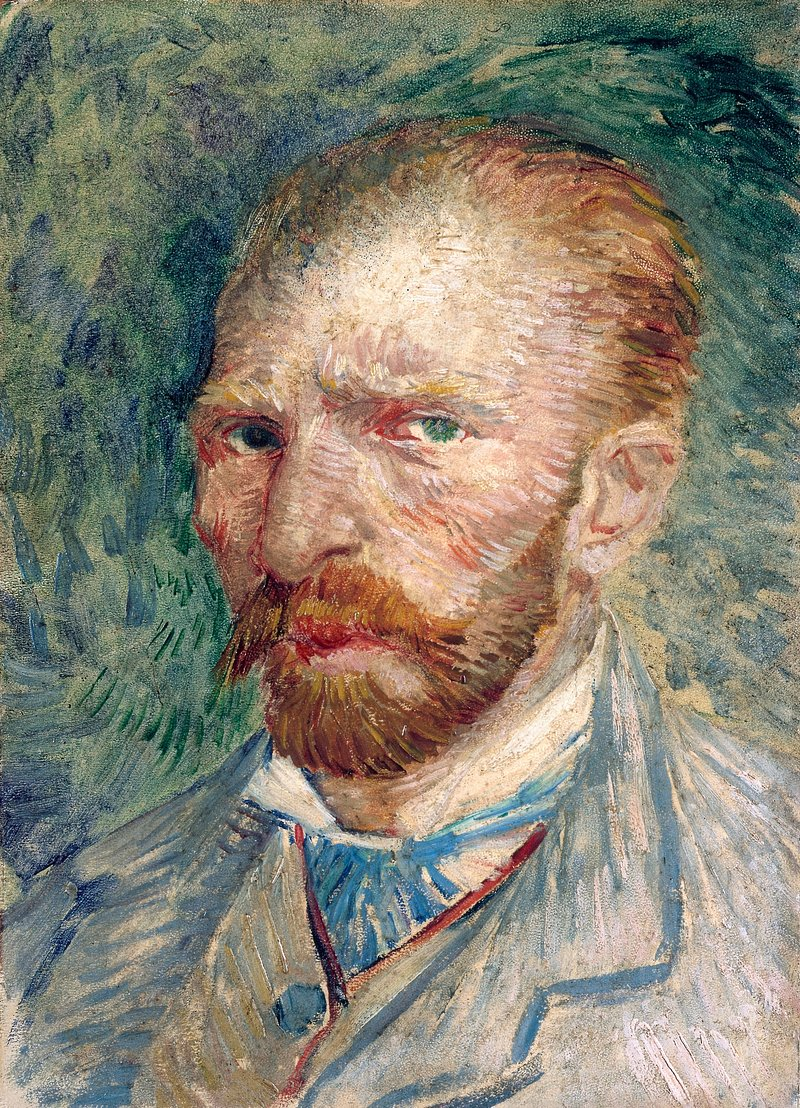
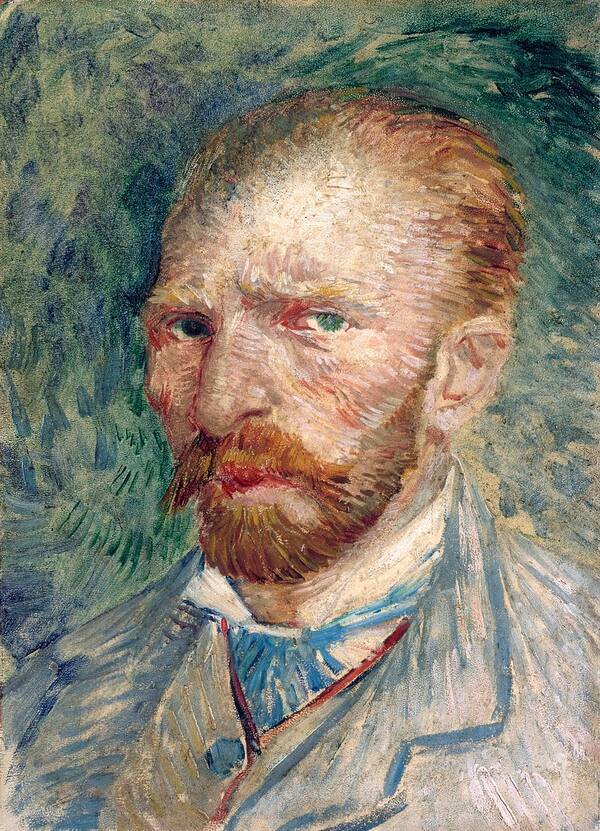
Faster startup: lazy 3D and shader code, parallel route loading, smaller art
- The 3D keyboard (three.js, react-three-fiber) loads only when it is turned on.
  The entry bundle drops from about 3.0 MB to 1.9 MB of JavaScript.
- The decorative pattern on Home and Chat loads on its own chunk.
- TopBar and Developer read the build stamp without importing the whole About tab.
- Route warm-up is sequential and skipped on data saving or slow connections.
- The backend loads its route modules in parallel: boot is about 100 ms faster.
- Painting files are recompressed (Van Gogh 400 kB to 136 kB).

diff --git a/backend/src/index.ts b/backend/src/index.ts
@@ -32,36 +32,41 @@ async function main() {
   // resolved. A static import above would open the database in the process's
   // working directory instead of the user's library. It did exactly that for
   // these three routes until the packaged-install test caught it.
-  const { healthRoutes } = await import('./routes/health')
-  const { feedbackRoutes } = await import('./routes/feedback')
-  const { libraryRoutes } = await import('./routes/library')
-  const { proxyRoutes } = await import('./routes/proxy')
-  const { skillsRoutes } = await import('./routes/skills')
-  const { strixRoutes } = await import('./routes/strix')
-  const { jevRoutes } = await import('./routes/jev')
-  const { dataRoutes } = await import('./routes/data')
-  const { searchRoutes } = await import('./routes/search')
-  const { learnRoutes } = await import('./routes/learn')
-  const { sandboxRoutes } = await import('./routes/sandbox')
-  const { personaRoutes } = await import('./routes/personas')
-  const { chatRoutes } = await import('./routes/chat')
-  const { documentRoutes } = await import('./routes/documents')
-  const { ollamaRoutes } = await import('./routes/ollama')
-  const { integrationRoutes } = await import('./routes/integrations')
-  const { composioRoutes } = await import('./routes/composio')
-  const { signinRoutes } = await import('./routes/signin')
-  const { pipedreamRoutes } = await import('./routes/pipedream')
-  const { harnessRoutes } = await import('./routes/harness')
-  const { context7Routes } = await import('./routes/context7')
-  const { serviceRoutes } = await import('./routes/services')
-  const { resourceRoutes } = await import('./routes/resources')
-  const { fsRoutes } = await import('./routes/fs')
-  const { providerRoutes } = await import('./routes/providers')
-  const { ideRoutes } = await import('./routes/ide')
-  const { previewRoutes } = await import('./routes/preview')
-  const { PreviewManager } = await import('./preview/manager')
-  const { connectorRoutes } = await import('./routes/connectors')
-  const { mcpRoutes } = await import('./routes/mcp')
+  // The route modules do not depend on each other, so they load in parallel instead of
+  // one after another. Every import still finishes before the server listens.
+  const [healthRoutes, feedbackRoutes, libraryRoutes, proxyRoutes, skillsRoutes, strixRoutes, jevRoutes, dataRoutes, searchRoutes, learnRoutes, sandboxRoutes, personaRoutes, chatRoutes, documentRoutes, ollamaRoutes, integrationRoutes, composioRoutes, signinRoutes, pipedreamRoutes, harnessRoutes, context7Routes, serviceRoutes, resourceRoutes, fsRoutes, providerRoutes, ideRoutes, previewRoutes, PreviewManager, connectorRoutes, mcpRoutes, voiceRoutes] = await Promise.all([
+    import('./routes/health').then((m) => m.healthRoutes),
+    import('./routes/feedback').then((m) => m.feedbackRoutes),
+    import('./routes/library').then((m) => m.libraryRoutes),
+    import('./routes/proxy').then((m) => m.proxyRoutes),
+    import('./routes/skills').then((m) => m.skillsRoutes),
+    import('./routes/strix').then((m) => m.strixRoutes),
+    import('./routes/jev').then((m) => m.jevRoutes),
+    import('./routes/data').then((m) => m.dataRoutes),
+    import('./routes/search').then((m) => m.searchRoutes),
+    import('./routes/learn').then((m) => m.learnRoutes),
+    import('./routes/sandbox').then((m) => m.sandboxRoutes),
+    import('./routes/personas').then((m) => m.personaRoutes),
+    import('./routes/chat').then((m) => m.chatRoutes),
+    import('./routes/documents').then((m) => m.documentRoutes),
+    import('./routes/ollama').then((m) => m.ollamaRoutes),
+    import('./routes/integrations').then((m) => m.integrationRoutes),
+    import('./routes/composio').then((m) => m.composioRoutes),
+    import('./routes/signin').then((m) => m.signinRoutes),
+    import('./routes/pipedream').then((m) => m.pipedreamRoutes),
+    import('./routes/harness').then((m) => m.harnessRoutes),
+    import('./routes/context7').then((m) => m.context7Routes),
+    import('./routes/services').then((m) => m.serviceRoutes),
+    import('./routes/resources').then((m) => m.resourceRoutes),
+    import('./routes/fs').then((m) => m.fsRoutes),
+    import('./routes/providers').then((m) => m.providerRoutes),
+    import('./routes/ide').then((m) => m.ideRoutes),
+    import('./routes/preview').then((m) => m.previewRoutes),
+    import('./preview/manager').then((m) => m.PreviewManager),
+    import('./routes/connectors').then((m) => m.connectorRoutes),
+    import('./routes/mcp').then((m) => m.mcpRoutes),
+    import('./routes/voice').then((m) => m.voiceRoutes),
+  ])
 
   // One preview manager per process: it owns the dev servers started for
   // Coding / Design mode and the proxies the browser embeds.
@@ -85,7 +90,6 @@ async function main() {
   app.route('/api/learn', learnRoutes)
   app.route('/api/sandbox', sandboxRoutes)
   app.route('/api/personas', personaRoutes)
-  const { voiceRoutes } = await import('./routes/voice')
   app.route('/api', voiceRoutes)
   app.route('/api/chat', chatRoutes)
   app.route('/api/documents', documentRoutes)

diff --git a/frontend/src/App.tsx b/frontend/src/App.tsx
@@ -72,38 +72,43 @@ import { watchFrameBudget } from '@/lib/system/frame-budget'
 import { wireAgentActivity } from '@/lib/ide/agents'
 import { MechanicalKeyboardDock } from '@/components/ui/kit/serenity/MechanicalKeyboardDock'
 
-/** Preload every lazy route chunk during idle time — first paint stays lean,
- *  but palette/navigation targets are warm by the time the user needs them. */
+/**
+ * Warm the most-used route chunks after the first screen is up.
+ *
+ * It starts two frames after mount, as before, so navigation stays instant, but it
+ * fetches one chunk at a time rather than all of them at once, so it does not compete
+ * with the first screen for bandwidth. It is skipped when the person has asked for data
+ * saving or is on a slow connection: there the chunks load when they are opened.
+ */
 function useRoutePreload() {
   useEffect(() => {
-    // Routes first: navigation should never wait on the network — and on a
-    // machine where the server is local or on the LAN, warming all of them is a
-    // disk read. Overlays follow, so the first open of Settings or the palette
-    // feels like it was always there.
-    const load = () => {
-      Promise.all([
-        import('@/components/chat/ChatView'),
-        import('@/components/settings/SettingsView'),
-        import('@/components/agents/FloodView'),
-        import('@/components/quiz/QuizHub'),
-        import('@/components/articles/ArticlesView'),
-        import('@/components/library/LibraryView'),
-        import('@/components/compare/CompareView'),
-      ]).then(() => Promise.all([
-        import('@/components/settings/SettingsSheet'),
-        import('@/components/tasks/TasksPanel'),
-        import('@/components/shared/CommandPalette'),
-      ])).catch(() => {})
-    }
-    // Two frames after mount is "the shell is on screen": the user's first
-    // paint is never delayed, but the warm-up does not wait for a timeout
-    // either. The timer is a floor for a background tab, where rAF never fires.
+    const conn = (navigator as Navigator & { connection?: { saveData?: boolean; effectiveType?: string } }).connection
+    if (conn?.saveData || /(^|-)2g|3g/.test(conn?.effectiveType ?? '')) return
+
+    const queue: Array<() => Promise<unknown>> = [
+      () => import('@/components/chat/ChatView'),
+      () => import('@/components/quiz/QuizHub'),
+      () => import('@/components/settings/SettingsView'),
+      () => import('@/components/library/LibraryView'),
+      () => import('@/components/articles/ArticlesView'),
+      () => import('@/components/compare/CompareView'),
+      () => import('@/components/agents/FloodView'),
+      () => import('@/components/settings/SettingsSheet'),
+      () => import('@/components/shared/CommandPalette'),
+      () => import('@/components/tasks/TasksPanel'),
+    ]
     let cancelled = false
+    const run = async () => {
+      for (const load of queue) {
+        if (cancelled) return
+        try { await load() } catch { /* a failed warm-up is not an error; the route loads on open */ }
+      }
+    }
+    // Two frames after mount is "the shell is on screen". The timer is a floor for a
+    // background tab, where requestAnimationFrame never fires.
     let raf2 = 0
-    const raf1 = requestAnimationFrame(() => {
-      raf2 = requestAnimationFrame(() => { if (!cancelled) load() })
-    })
-    const t = setTimeout(() => { if (!cancelled) load() }, 1500)
+    const raf1 = requestAnimationFrame(() => { raf2 = requestAnimationFrame(() => { if (!cancelled) void run() }) })
+    const t = window.setTimeout(() => { if (!cancelled) void run() }, 1500)
     return () => { cancelled = true; cancelAnimationFrame(raf1); cancelAnimationFrame(raf2); clearTimeout(t) }
   }, [])
 }

diff --git a/frontend/src/components/home/HomeScreen.tsx b/frontend/src/components/home/HomeScreen.tsx
@@ -1,4 +1,4 @@
-import React, { useMemo, useState, useEffect } from 'react'
+import React, { useMemo, useState, useEffect, lazy, Suspense } from 'react'
 import { useNavigate } from 'react-router-dom'
 import { AnimatePresence, motion } from 'motion/react'
 import { MessageSquare, BookOpen, GraduationCap, Users, Compass, ArrowRight, Sparkles, UploadCloud, Search, Code2, Swords, Calculator } from 'lucide-react'
@@ -10,7 +10,6 @@ import { SpotlightCard } from '@/components/ui/aceternity/SpotlightCard'
 import { AnimatedCounter } from '@/components/ui/reactbits/AnimatedCounter'
 import { Magnetic } from '@/components/ui/reactbits/Magnetic'
 import { BorderBeam } from 'border-beam'
-import PatternWaves from '@/components/ui/reactbits/micro/PatternWaves'
 import SwipeRow from '@/components/ui/reactbits/micro/SwipeRow'
 import { timeAgo, fmt } from '@/lib/utils'
 import { runChat } from '@/lib/chat/runChat'
@@ -37,6 +36,9 @@ const SUGGESTIONS = [
   'Draft a quiz on cellular respiration from my notes',
   'Is dark matter still the leading explanation? Weigh the alternatives',
 ]
+
+// The pattern backdrop is decorative and uses its own WebGL program; it loads on its own chunk.
+const PatternWaves = lazy(() => import('@/components/ui/reactbits/micro/PatternWaves'))
 
 export function HomeScreen() {
   const navigate = useNavigate()
@@ -115,7 +117,7 @@ export function HomeScreen() {
           place rather than sitting under it. The drifting waves sit above the
           aurora at low strength — a second layer of motion, not a replacement. */}
       {!wallpaper && <AuroraBackground className="absolute inset-0 pointer-events-none" />}
-      {!wallpaper && <div className="absolute inset-0 pointer-events-none"><PatternWaves opacity={0.35} interactive={false} /></div>}
+      {!wallpaper && <div className="absolute inset-0 pointer-events-none"><Suspense fallback={null}><PatternWaves opacity={0.35} interactive={false} /></Suspense></div>}
       <AnimatePresence>
         {dragOver && (
           <motion.div

diff --git a/frontend/src/components/chat/ChatView.tsx b/frontend/src/components/chat/ChatView.tsx
@@ -1,4 +1,4 @@
-import React, { useEffect, useMemo, useRef, useState } from 'react'
+import React, { useEffect, useMemo, useRef, useState, lazy, Suspense } from 'react'
 import { ChatEmptyState } from '@/components/ui/kit/illos/ChatEmptyState'
 import { ChatBackdrop } from '@/components/ui/kit/backdrops/ChatBackdrop'
 import { useParams } from 'react-router-dom'
@@ -12,8 +12,10 @@ import { runPosition } from '@/lib/chat/bubbles'
 import { Message } from './Message'
 import { InputBar } from '@/components/input/InputBar'
 import { ThinkingIndicator } from './ThinkingIndicator'
-import PatternWaves from '@/components/ui/reactbits/micro/PatternWaves'
 import { WebSearch } from '@/components/ui/kit/rareui/WebSearch'
+
+// The pattern backdrop is decorative and uses its own WebGL program; it loads on its own chunk.
+const PatternWaves = lazy(() => import('@/components/ui/reactbits/micro/PatternWaves'))
 
 export function ChatView() {
   const { id } = useParams<{ id: string }>()
@@ -154,7 +156,7 @@ export function ChatView() {
       {/* A faint wave field behind the conversation, only when there is no
           wallpaper or graph paper competing with it. Subtle, and it sits behind
           the message column, so dense text still reads. */}
-      {!mathMode && <div className="absolute inset-0 pointer-events-none"><PatternWaves opacity={0.22} interactive={false} /></div>}
+      {!mathMode && <div className="absolute inset-0 pointer-events-none"><Suspense fallback={null}><PatternWaves opacity={0.22} interactive={false} /></Suspense></div>}
       {/* The optional animated backdrop (Settings → Appearance). Off unless turned on. */}
       <ChatBackdrop />
       {/* Mode indicator bar */}

diff --git a/frontend/src/components/settings/DeveloperTab.tsx b/frontend/src/components/settings/DeveloperTab.tsx
@@ -4,7 +4,7 @@ import { Terminal, PlayCircle, CheckCircle2, XCircle, Loader2, Copy, Trash2, Ref
 import { useStore } from '@/stores/useStore'
 import { useUI } from '@/stores/useUI'
 import { Switch } from '@/components/ui/heroui/Switch'
-import { BUILD_ID } from '@/components/settings/AboutTab'
+import { BUNDLE_BUILD as BUILD_ID } from '@/lib/appVersion'
 import { runningVersion, useRunningVersion } from '@/lib/appVersion'
 import { Button } from '@/components/ui/heroui/Button'
 import { SAMPLE_PROJECT } from '@/lib/ide/sample'
